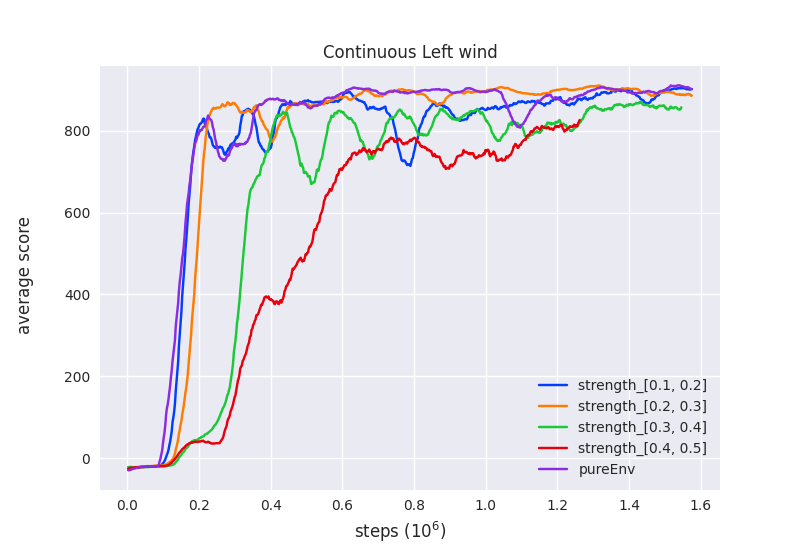
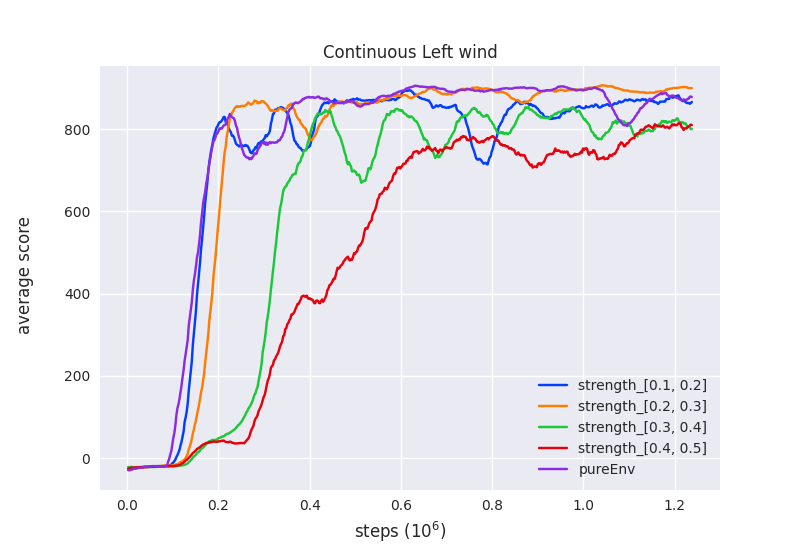
left plot remade

diff --git a/tensorboardPlotting/tfmatplotlib.py b/tensorboardPlotting/tfmatplotlib.py
@@ -116,7 +116,7 @@ def figs_in_line(input_paths, labels, colors):
     return fig, axs
 
 STEPS_POWER = 6 # xlabel 10^power and also xaxis / 10^power
-STEP_CUTOFF = 700
+STEP_CUTOFF = 550
 def more_lines_in_one_graph(input_paths, ax, colors, title, labels = None):
     for i, path in enumerate(input_paths):
         s, v = get_data_from_tbfile(path)
@@ -245,7 +245,7 @@ if __name__ == '__main__':
     # ---------------------
     # normal line/curve plots
     # ---------------------
-    NORMAL_LINE = False
+    NORMAL_LINE = True
     if NORMAL_LINE:
         # fig, axs = figs_in_line(input_paths, labels, colors)
         # plt.tight_layout()
@@ -261,30 +261,20 @@ if __name__ == '__main__':
         # # get_sides(axs[0], colors)
         # # get_right(axs, colors)
         # # get_gustyRight(axs, colors)
-        # get_left(axs, colors)
+        get_left(axs, colors)
         # # get_gustyLeft(axs, colors)
         # get_gustySides(axs, colors)
-        get_PRETgustySides(axs, colors)
+        # get_PRETgustySides(axs, colors)
         
         fig.supxlabel(f'steps ($10^{STEPS_POWER}$)')
         fig.supylabel('average score')
-        fig.savefig("PRETgustySides.png")
+        fig.savefig("left.png")
     
     # -----------------------------------
     #   MultiBAR plots
     MULTIBAR = False
     if MULTIBAR:
         make_example_multibar()
-        
-    # -----------------------------------
-    #   HeatMap plots
-    HEATMAP = True
-    if HEATMAP:
-        # data = np.genfromtxt("running-heatmap.csv", delimiter=",", skip_header=True, usecols=range(1, 25))
-        # plt.imshow(data, cmap='hot', interpolation='nearest')
-        # plt.savefig("heatmap.png")
-        
-        import pandas as pd
         
     
 
